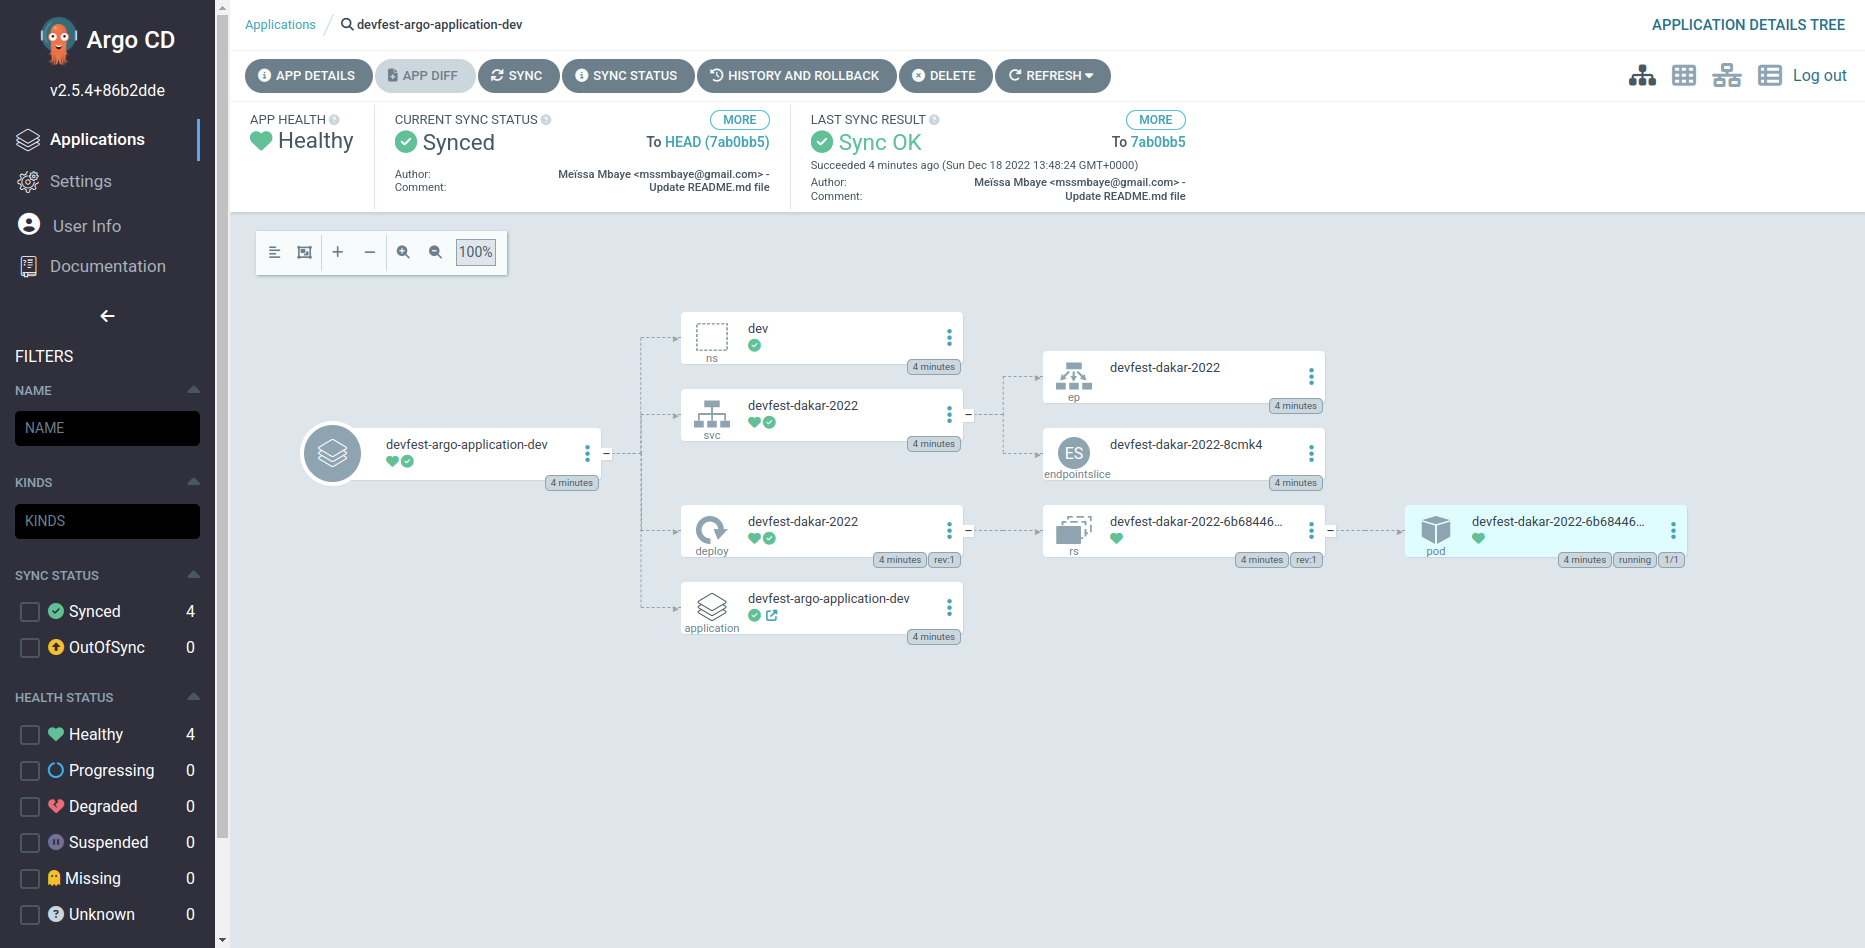
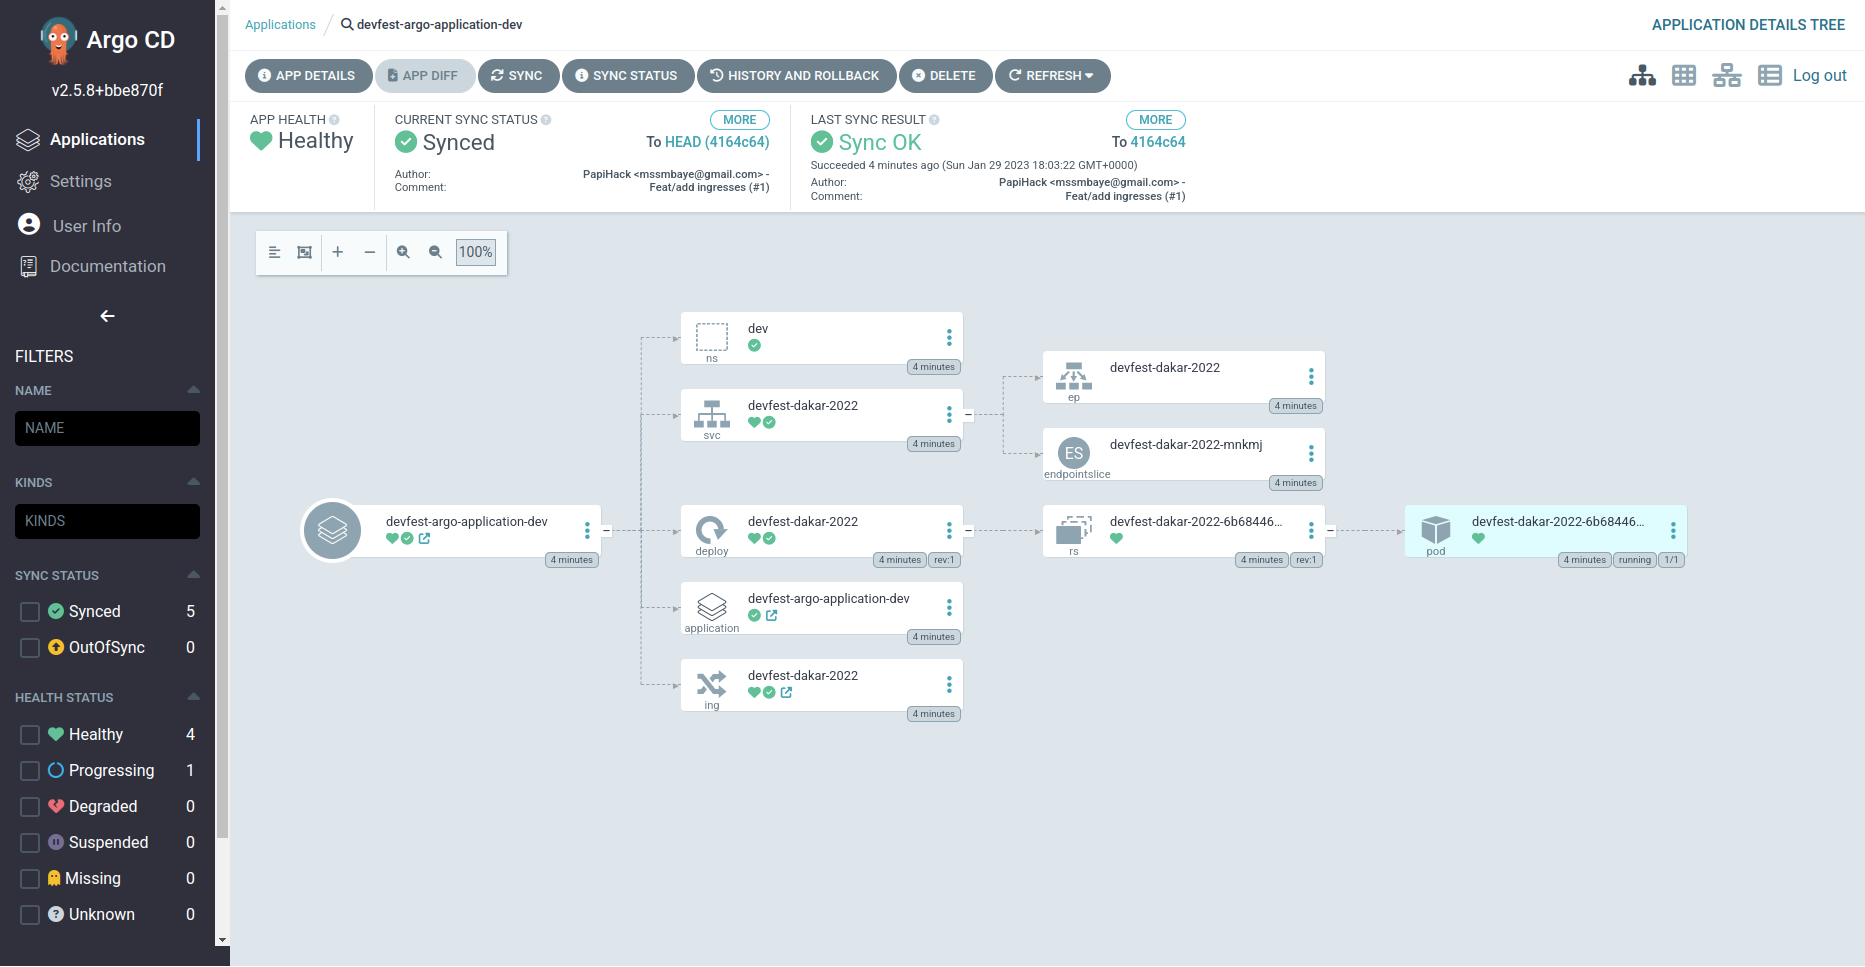
Make it better

diff --git a/README.md b/README.md
@@ -92,6 +92,12 @@ kubectl apply -f dev/argo-dev-app.yaml -f staging/argo-staging-app.yaml -f prod/
     </tr>
 </table>
 
+- You can access to the deployed apps by going to :
+
+    - <http://devfest-app.dev.localhost/devfest-demo/docs> on dev environment
+    - <http://devfest-app.staging.localhost/devfest-demo/docs> on staging environment
+    - <http://devfest-app.prod.localhost/devfest-demo/docs> on prod environment
+
 - If you want to clean up and delete the cluster, you can run the following command :
 
 ```bash
